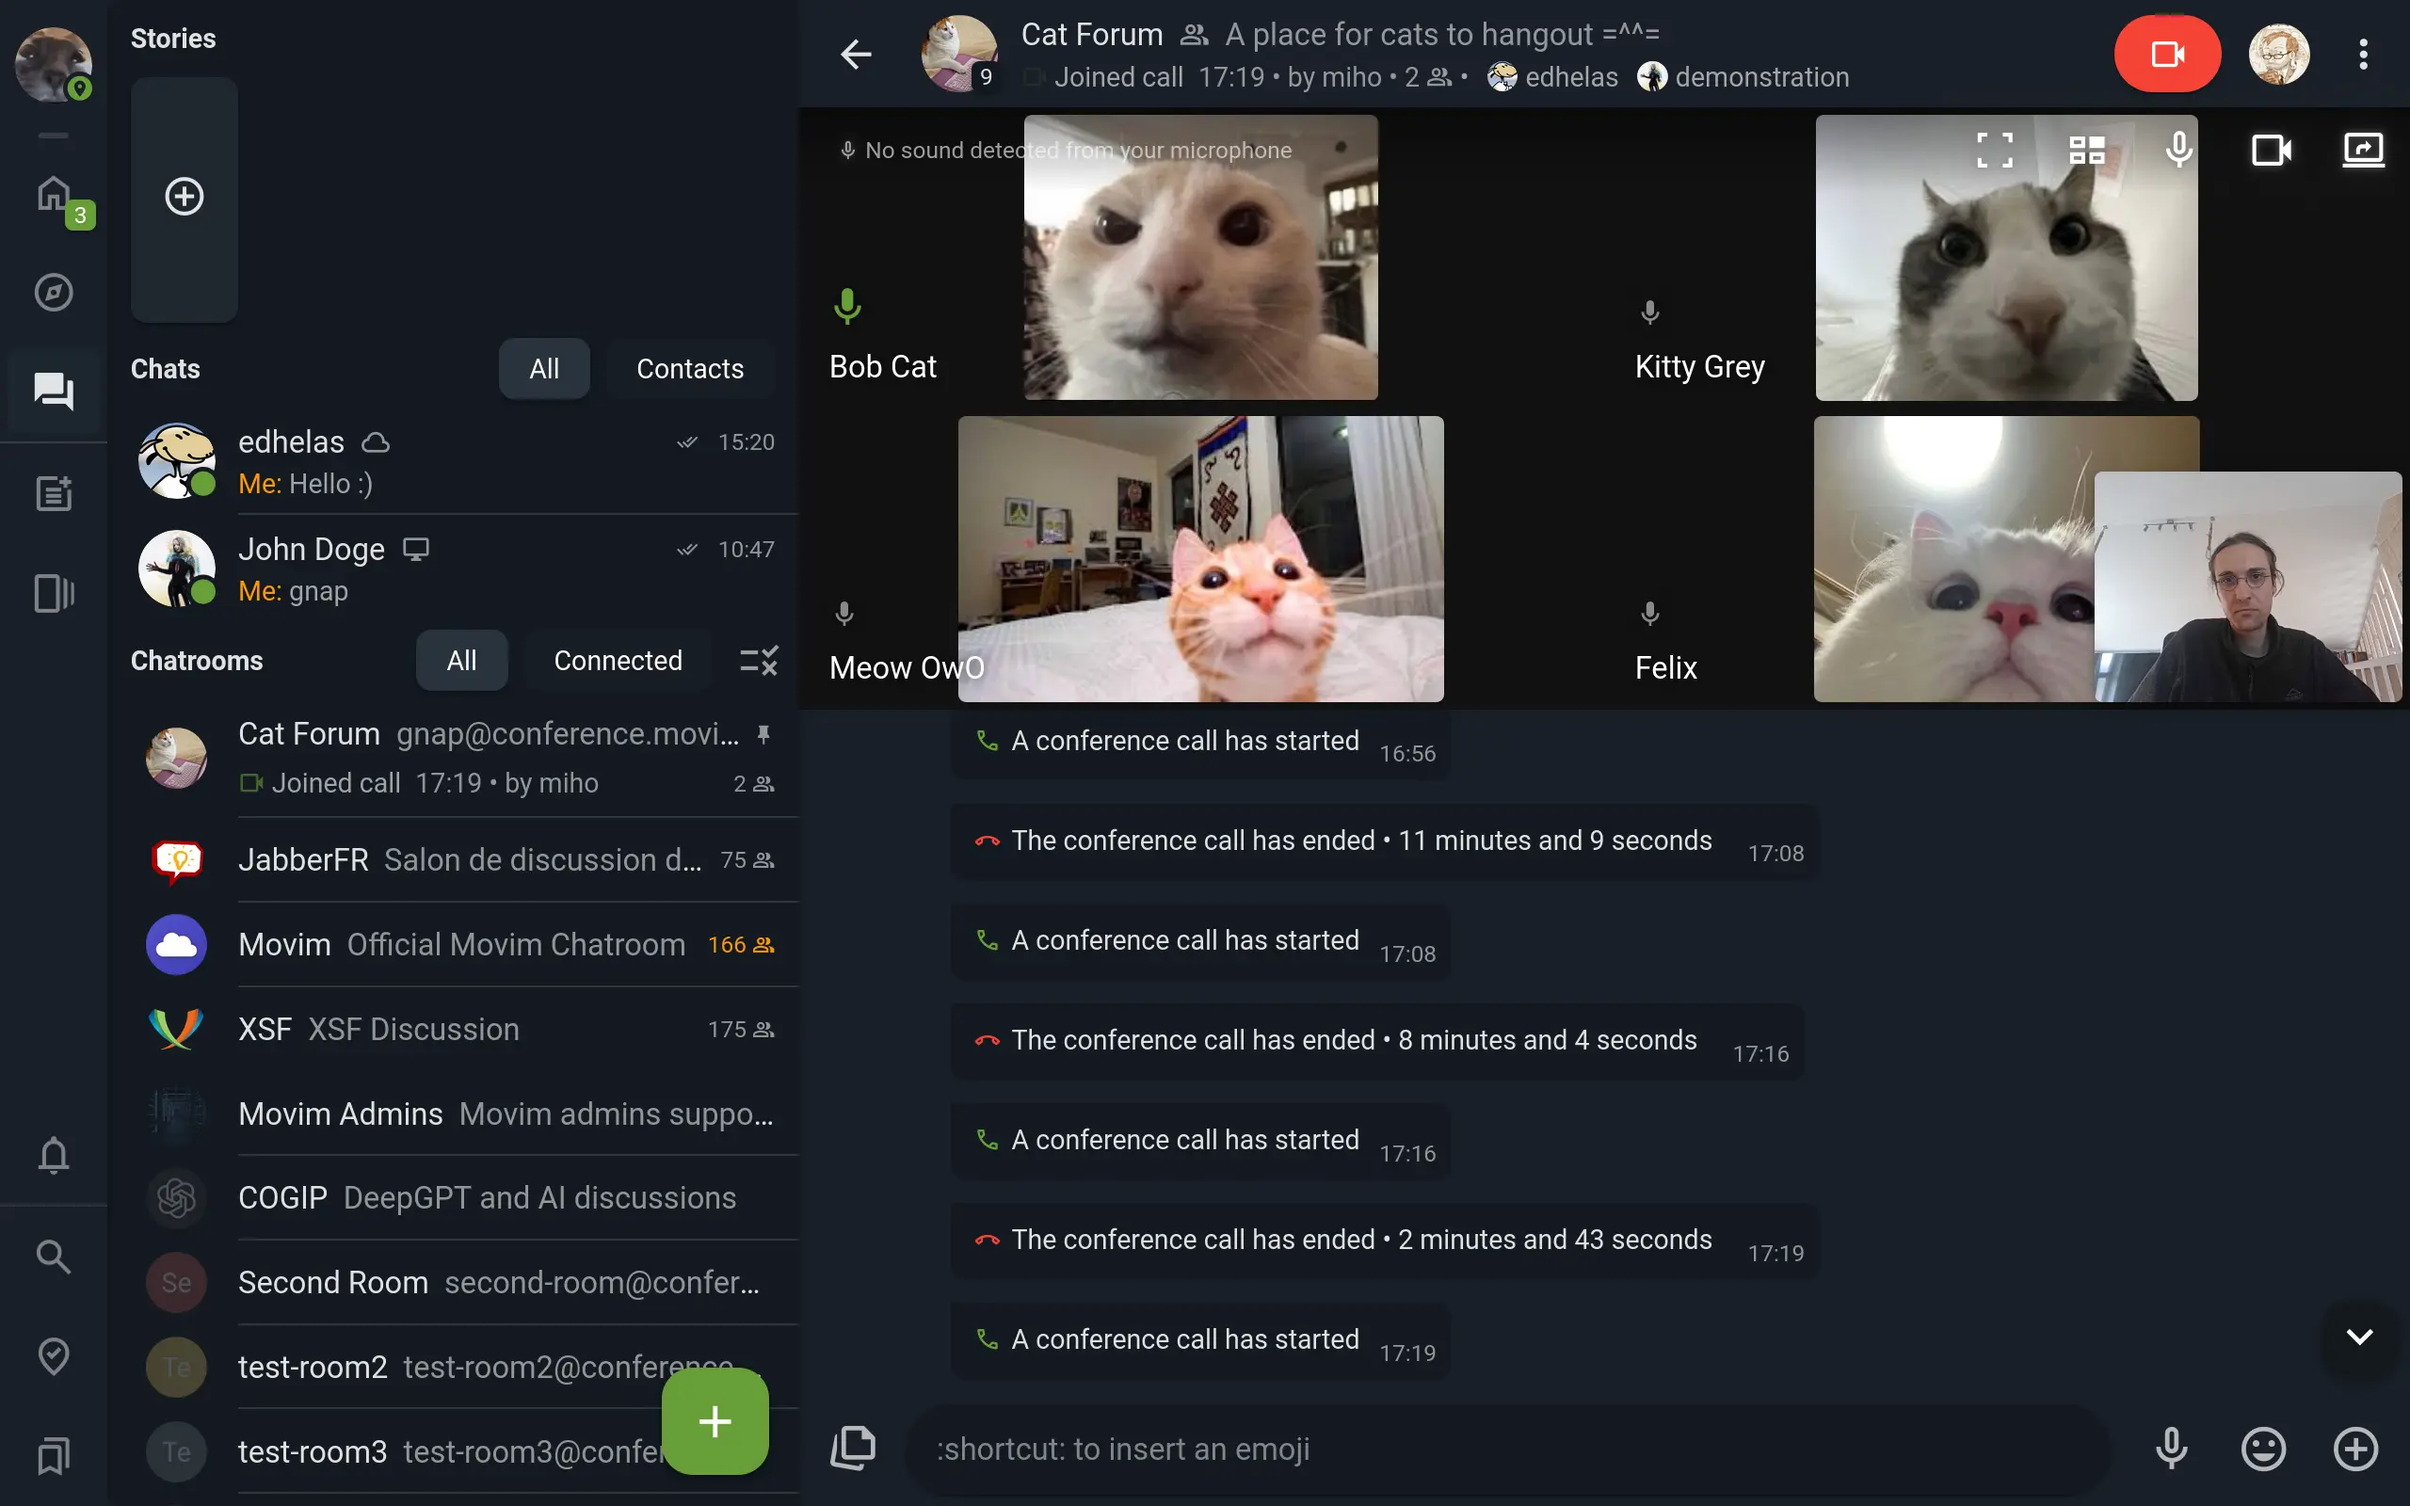
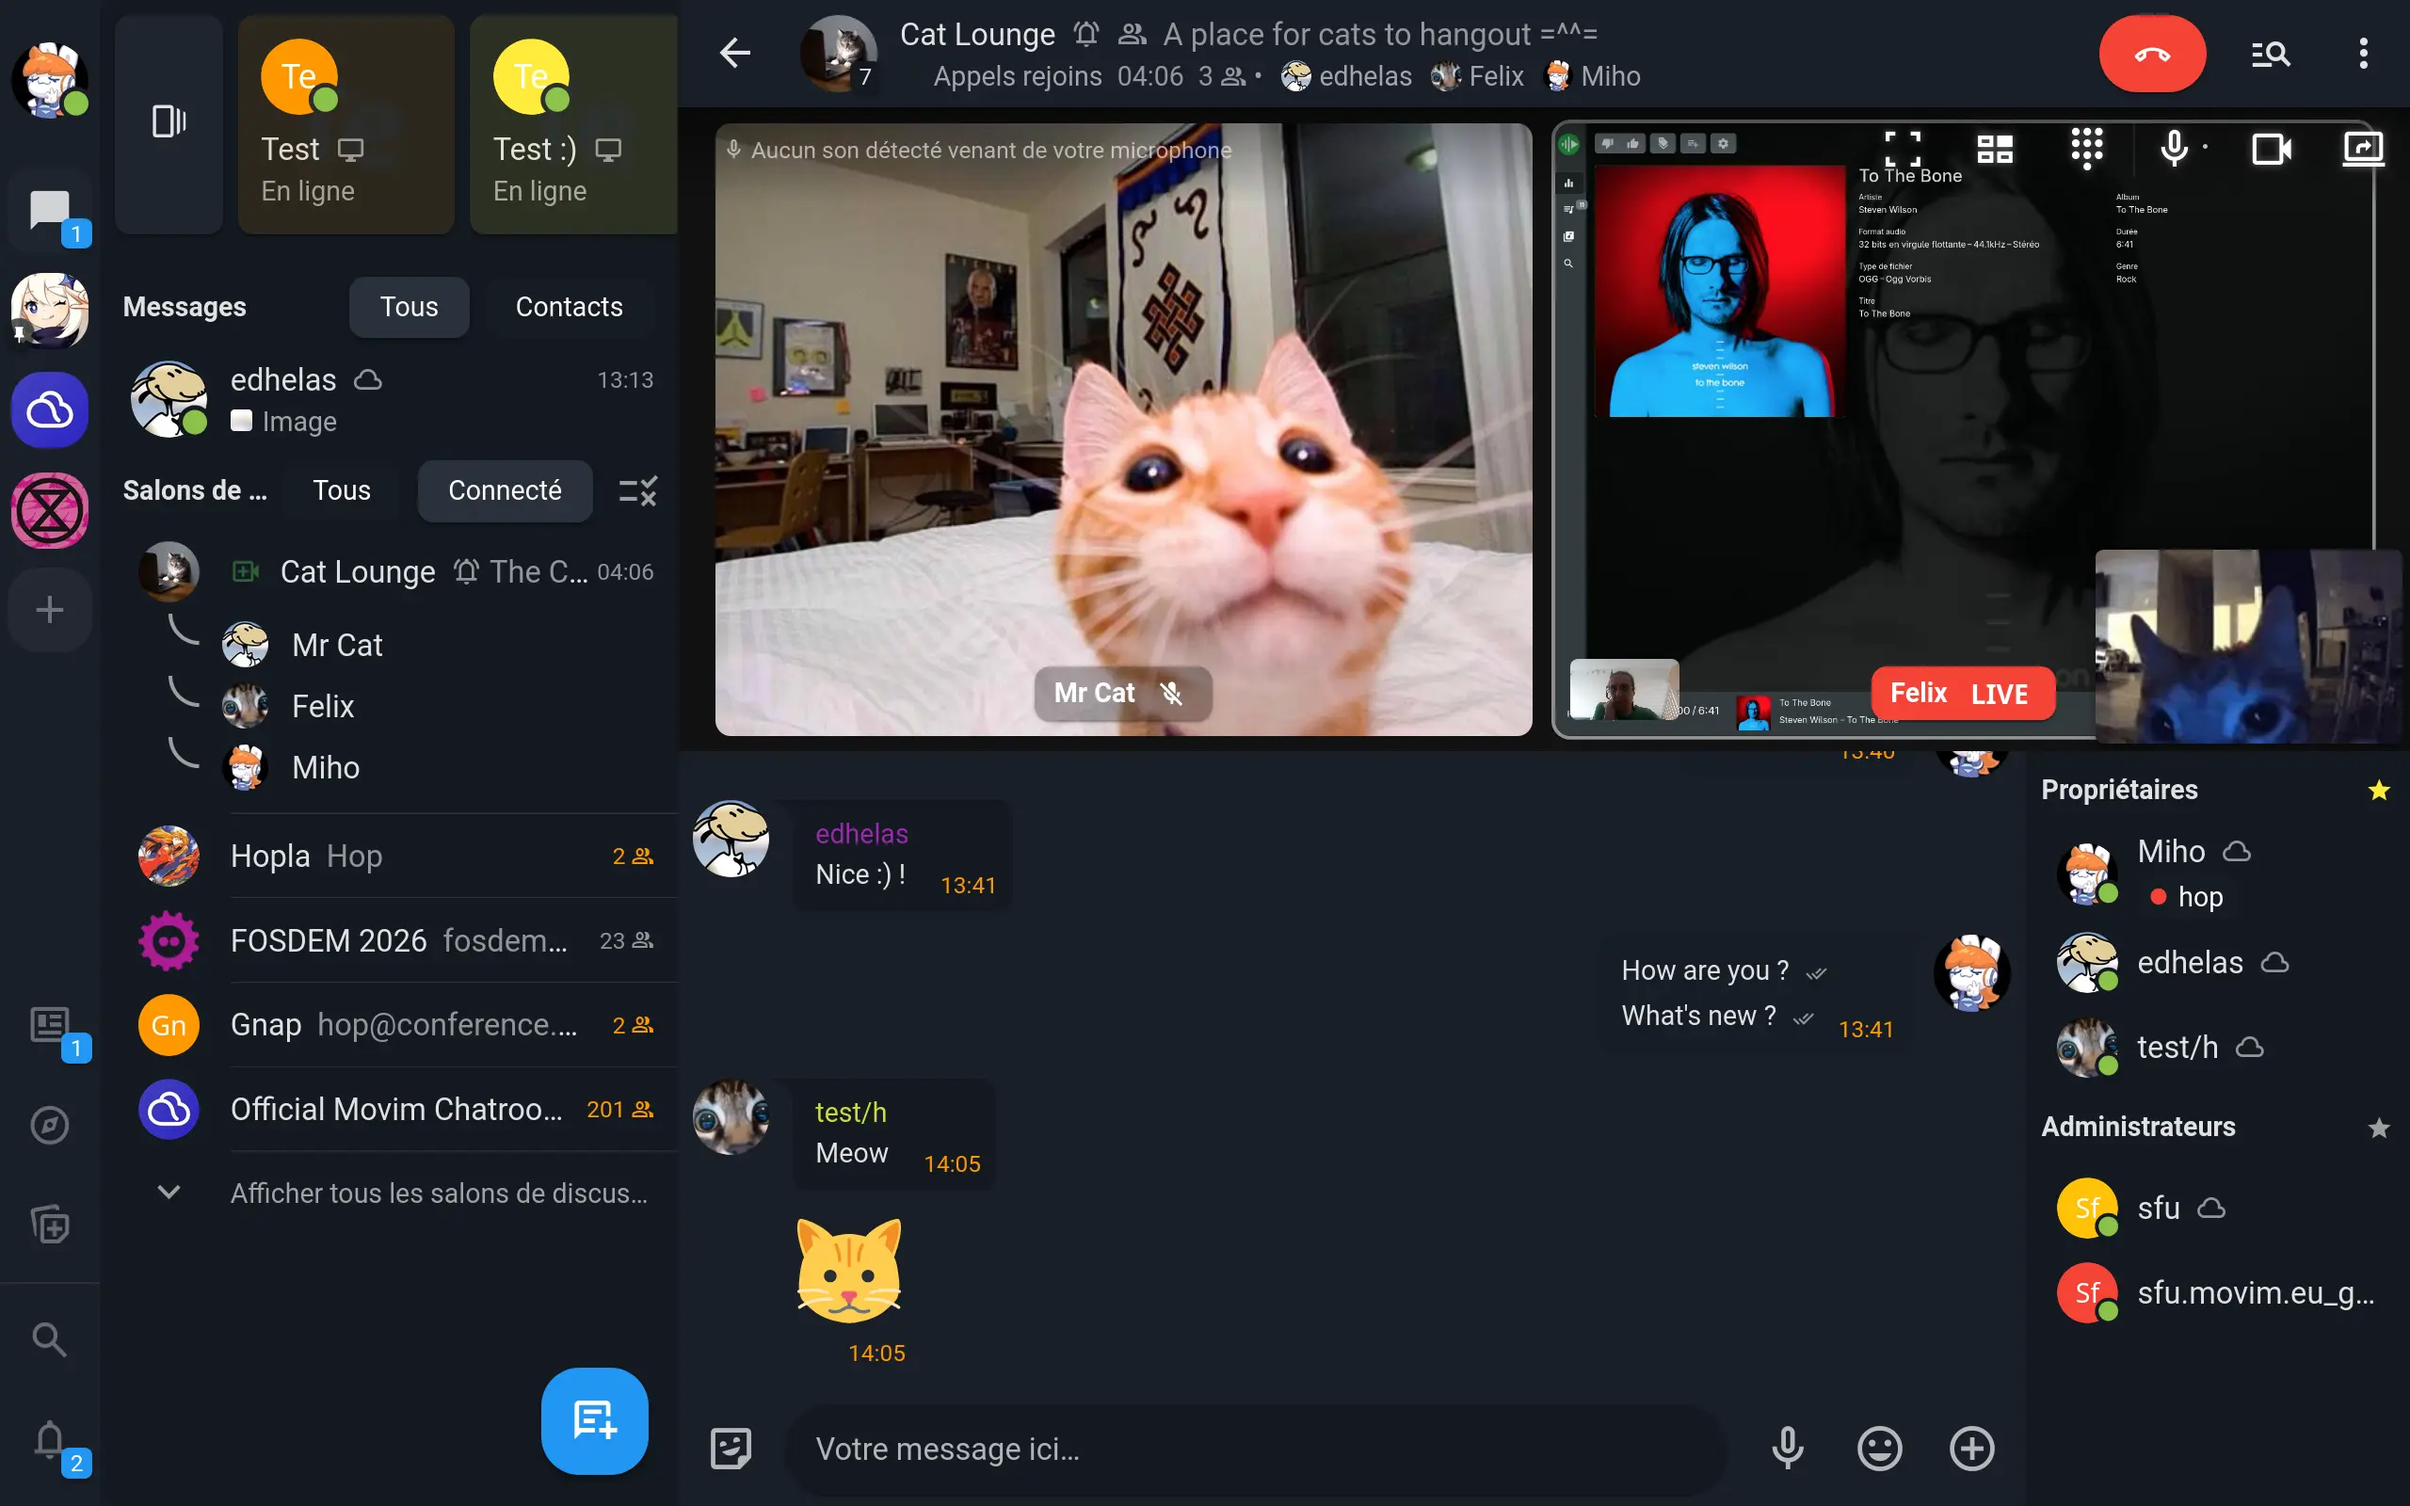
Update the visio screens

diff --git a/index.html b/index.html
@@ -408,7 +408,7 @@
                     <div>
                         <i class="material-symbols fill">adaptive_audio_mic</i>
                         <p>
-                            Create audio-rooms to discuss together on a specific topic (in development)
+                            Create audio-rooms to discuss together on a specific topic
                         </p>
                     </div>
                     <div>
@@ -482,10 +482,9 @@
                         </p>
                     </div>
                     <div>
-                        <i class="material-symbols fill">swap_horizontal_circle</i>
+                        <i class="material-symbols fill">video_call</i>
                         <p>
-                            Compatible with the other XMPP clients
-                            such as <a href="https://conversations.im/">Conversations</a> and <a href="https://dino.im/">Dino</a>
+                            Enable Wide Conference Calls with <a href="https://github.com/movim/movim/blob/master/doc/GALENER.md">Movim Galener</a>
                         </p>
                     </div>
                     <div>
